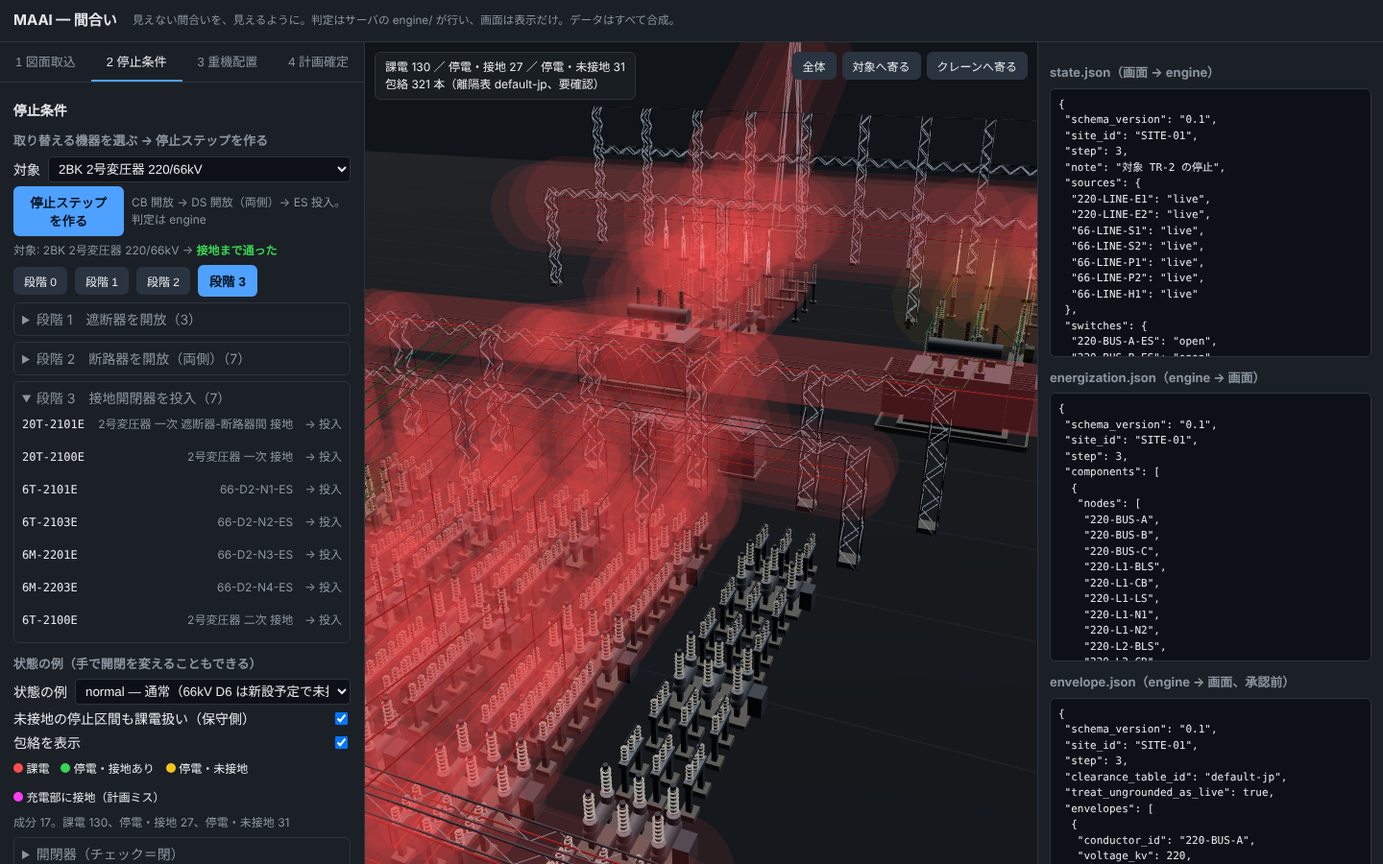
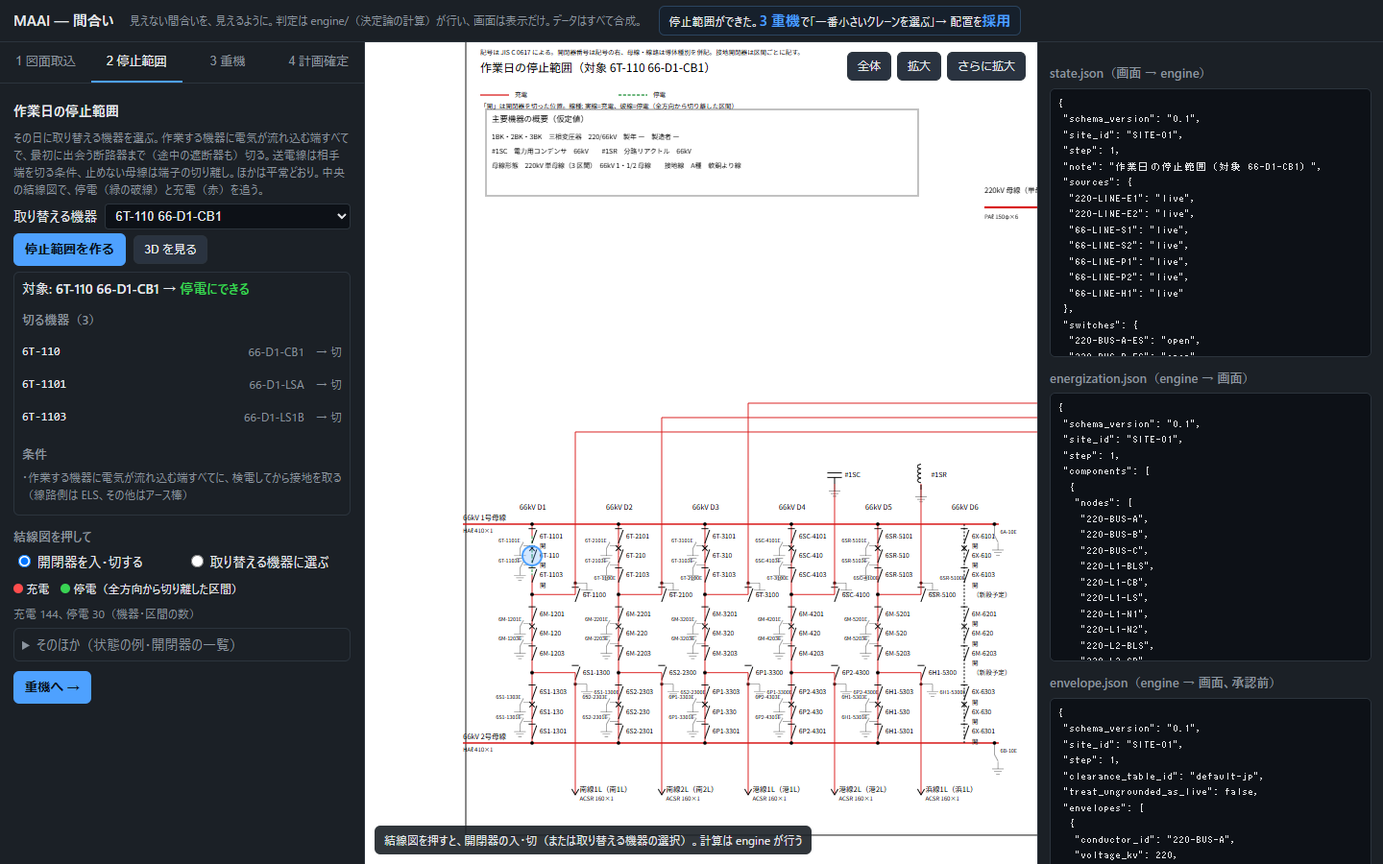
README・台本・仕様・仕組み図・画面写真を、作業日の停止範囲と重機の選定の流れに合わせる。状況: 話し合ったゴールまで完了

diff --git a/README.md b/README.md
@@ -4,16 +4,16 @@
 
 **見えない間合いを、見えるように。**
 
-変電所の機器を取り替えるとき、どこを止め、どこに接地し、残った充電部とクレーンの間にどれだけ距離が残るかを、図面から計算して描き出す机上の道具です。安全の判定は、同じ入力にいつも同じ答えを返す計算コード（決定論）が行います。Claude は図面の意味づけと説明だけを受け持ち、採否は人が決めます。
+変電所の機器を取り替える作業日に、どこを止めれば足りるか、残った充電部に近づかずに吊れる一番小さい（安い）クレーンはどれで、どこに据えるかを、図面から計算して出す机上の道具です。安全の判定は、同じ入力にいつも同じ答えを返す計算コード（決定論）が行います。Claude は図面の意味づけと説明だけを受け持ち、採否は人が決めます。
 
 > このリポジトリのデータはすべて合成です。実在する事業者・変電所・図面・写真・人は含みません（[データについて](#データについて)）。
 
-![停止ステップを段階 3 まで進めたところ。2号変圧器まわりだけ電気が消え、残りは赤いまま](docs/img/ui-2-steps.png)
+![作業日の停止範囲。66kV 遮断器を取り替える日に切る機器と条件が出て、結線図の上で停電（緑の破線）と充電（赤）を追う](docs/img/ui-2-steps.png)
 
 ## すぐ見る（インストールなし・スマホ可）
 
-- **ブラウザで動かす**: https://daxion1578.github.io/Minimum-Approach-Area-Indicator/ を開くだけ。サーバ無しで、計算はそのブラウザの中で、手元のサーバ版と同じ Python コードが行います（初回は準備に 10〜20 秒）。取込タブの「サンプル図面で試す」から 4 タブを順に触れます。Claude は呼ばないので、図面の意味づけと修正案の説明は規則の文になります。
-- **動いている証拠**: 上の `check` バッジ → 最新の実行 → **Summary**。push のたびに GitHub 上で、図面取込 → 停止ステップ → 離隔判定「不可」→ 修正案「起伏角 65°」で「可」→ 承認、を通しで動かし、段階ごとの合否を表で出しています（Claude は呼ばない経路）。
+- **ブラウザで動かす**: https://daxion1578.github.io/Minimum-Approach-Area-Indicator/ を開くだけ。サーバ無しで、計算はそのブラウザの中で、手元のサーバ版と同じ Python コードが行います（初回は準備に 10〜20 秒）。取込タブの「サンプル図面で試す」から 4 タブを順に触れます（画面上の帯が、次に押すものを示します）。Claude は呼ばないので、図面の意味づけと修正案の説明は規則の文になります。
+- **動いている証拠**: 上の `check` バッジ → 最新の実行 → **Summary**。push のたびに GitHub 上で、図面取込 → 作業日の停止範囲 → 重機の選定（一番小さいクラス）→ 追加停止で小さくできるか → 承認、を通しで動かし、段階ごとの合否を表で出しています（Claude は呼ばない経路）。
 - **画面**: 下の「流れ」の画面写真。
 - **手元で同じ確認**: `python scripts/check_demo.py`（サーバを立てずに 1 分以内）。
 
@@ -21,35 +21,35 @@
 
 変電所の設備更新工事は、運転中の構内で行われます。取り替える機器の周りは止めますが、受電回線や母線は片側しか止められず、すぐ隣に電気の流れている導体が残ります。そこへクレーンが入ると、ブームや吊荷が充電部に近づく場所ができます。
 
-近づいてはいけない距離は、図面のどこにも描かれていません。系統のつながりと開閉器の状態から計算して初めて分かり、停止の手順が一段進むたびに変わります。今は担当者が頭の中で図面を塗り分け、平面図に円を描いて確かめ、現地では見張る人の目に頼っています。人が減り、経験者が入れ替わると、この判断は再現できなくなります。
+近づいてはいけない距離は、図面のどこにも描かれていません。系統のつながりと開閉器の状態から計算して初めて分かり、作業日ごとの停止範囲で変わります。今は担当者が単線結線図を頭の中で塗り分け、平面図に円を描いてクレーンの大きさと置き場所を確かめ、現地では見張る人の目に頼っています。クレーンは小さいほど安いのに、近くの充電部を避けるために遠くから吊ると大きいクレーンが要る。止める範囲を広げれば小さく済むが、停止の調整が要る。この比べ方は人の経験に頼っていて、人が減り経験者が入れ替わると再現できなくなります。
 
 ## 誰が使うか
 
-使うのは、取り替える機器を決め、停止計画を自分で組み、重機の配置を工事会社と詰める工事担当者です。系統側との最終調整と承認は人が持ちます。この道具は、その人が頭の中でやっている「塗り分けて、間合いを測る」を、同じ順番で画面に出します。
+使うのは、取り替える機器を決め、停止計画を自分で組み、重機の配置を工事会社と詰める工事担当者です。系統側との最終調整と承認は人が持ちます。この道具は、その人が頭の中でやっている「結線図を塗り分けて、間合いを測り、クレーンの大きさを決める」を、同じ順番で画面に出します。
 
 ## 流れ（画面の 4 タブ）
 
 | | タブ | 何をするか | 誰が決めるか |
 |---|---|---|---|
 | 1 | 図面取込 | 単線結線図（ベクター PDF）を読み込む。線・開閉器記号・番号から接続を起こし、開閉器が「未確認」で並ぶ。種別の確認と質問文は Claude（呼べなければ規則） | 接続は決定論。確認は人 |
-| 2 | 停止条件 | 取り替える機器を選ぶと、遮断器開放 → 断路器開放（両側）→ 接地開閉器投入 の停止ステップが出る。段階ごとに、どの導体が生きているかを判定し、3D に赤（課電）・緑（停電・接地）・黄（停電・未接地）で塗り分ける | 決定論 |
-| 3 | 重機配置 | クレーンを置く（ベース・向き・ブーム長・起伏角・旋回範囲）。旋回の範囲を掃引して、ブーム・ロープ・吊荷と充電部の最小距離を出し、可／条件付き可／不可と根拠を返す。不可なら修正案（ベース移動・旋回制限・起伏・追加停止）を一つずつ再判定して並べる。説明文は Claude | 判定と候補は決定論。採用は人 |
-| 4 | 計画確定 | 承認すると、もう一度判定し直してから `approved/` に plan・envelope・段階ごとに塗り分けた単線結線図 PDF を書き出す。不可は承認できない | 人 |
+| 2 | 停止範囲 | その日に取り替える機器を選ぶと、作業日の停止範囲が出る。作業する機器に電気が流れ込む端すべてで、最初に出会う断路器まで（途中の遮断器も）切る。送電線は相手端を切る条件、止めない母線は端子の切り離し。中央の単線結線図で、停電（緑の破線）と充電（赤）を追い、図を押して開閉器を入・切できる | 決定論。止めるかどうかは人 |
+| 3 | 重機 | 吊る機器（取り替える機器の真上）と資材置場（の真上）と重さから、届いて・吊れて・充電部の離隔を保てる一番小さいクレーンと据付位置を選ぶ。一つ下のクラスが使えない理由と、追加で止めれば何級で済むかも出す。手で置いて確かめ、修正案を出すこともできる | 選定と判定は決定論。採用は人 |
+| 4 | 計画確定 | 承認すると、もう一度判定し直してから `approved/` に plan・envelope・停止範囲図（塗り分けた単線結線図 PDF）を書き出す。接地を取る条件などを計画に書く。不可と、重機の無い計画は承認できない | 人 |
 
+![重機の選定。66kV 遮断器を吊るのに 50t 級が要り（一つ下は 1 号変圧器の 66kV 側に近づくため使えない）、1 号変圧器を追加で止めれば 25t 級で済む](docs/img/ui-3-select.png)
 ![図面取込。開閉器が番号で並び、質問の無いものを確認済にする](docs/img/ui-1-ingest.png)
-![重機配置。不可の判定と、どの導体にどれだけ近いか](docs/img/ui-3-clearance.png)
-![修正案。engine が再判定した候補に、Claude（または定型文）の説明が付く](docs/img/ui-3-propose.png)
-![計画確定。承認ハッシュと書き出したファイル](docs/img/ui-4-approve.png)
+![計画確定。承認の条件と、書き出したファイル](docs/img/ui-4-approve.png)
 
 ## 設計判断
 
-- **安全の判断は計算で、説明は Claude で。** 課電判定・距離・包絡・停止ステップ・修正案の候補と再判定は `engine/` の決定論コードが行い、テストで固めます（`python -m pytest -q`）。Claude は数値を決めません。
+- **安全の判断は計算で、説明は Claude で。** 課電判定・距離・包絡・停止範囲・重機の選定・修正案の候補と再判定は `engine/` の決定論コードが行い、テストで固めます（`python -m pytest -q`）。Claude は数値を決めません。
 - **Claude の出力は必ず engine が再検証してから表示し、採否は人が決める。** 取り込んだ図面の種別が規則と食い違えば、上書きせず「要確認」として人に戻します。
-- **迷ったら保守側。** 停止したが接地していない区間は、既定では課電扱いで包絡を出します（画面で切替可。画面写真の黄色がそれです）。
+- **停止は作業日の停止範囲で持つ。** クレーンが動くのは開閉器の操作が終わった後なので、操作の途中段階は扱いません（操作の順番は系統運用側の操作票の仕事）。状態は充電・停電の 2 つで、「停電」は開閉器で全方向から切り離された区間だけ。一か所でもつながっていれば充電です。接地は流入端すべてに作業手順で取る前提とし、承認の出力に条件として必ず書きます。
+- **一番小さいクレーンを選ぶ。保守側に。** クラスを小さい順に試し、届く・吊れる・離隔を保てる最初のクラスを選びます。荷重表の間の半径は遠い側（小さい荷重）の値、旋回は 2° 刻みで刻みの間の動きも半径に上乗せして調べます。荷重表と吊る重さは例示値で、会社と機種の表で差し替える前提です。
 - **カメラで充電部を当てない。** 生きているかどうかは見た目では分かりません。系統のつながりと開閉器の状態から計算します。
 - **情報を外に出さない作り。** Claude を呼ぶのは `agent/client.py` の一か所。送る前に `agent/mask.py` が線路名・所名を符号に置き換え、送った内容を `logs/outbound/` に残します。容量・潮流・整定・暦日・座標はそもそもデータに持ちません。
 - **キーが無くても全画面が動く。** 意味づけと説明は規則の代替に切り替わり、安全判定は何も変わりません。
-- **数十年使えるデータに。** 入力は図面、出力は版番号つきの JSON と PDF。判断の数値（離隔表、余裕、監視員の条件）はコードでなくファイルに置きます（`data/tables/`, `data/rules/`）。
+- **数十年使えるデータに。** 入力は図面、出力は版番号つきの JSON と PDF。判断の数値（離隔表、荷重表、余裕、監視員の条件）はコードでなくファイルに置きます（`data/tables/`, `data/rules/`）。承認の記録には、使った結線・配置・離隔表のハッシュを残します。
 
 判断の経緯は [docs/decisions.md](docs/decisions.md)、Claude に任せること・任せないことの一覧は [docs/claude-boundary.md](docs/claude-boundary.md)。
 
@@ -58,7 +58,7 @@
 | 任せる（`agent/`） | 任せない（`engine/` と人） |
 |---|---|
 | 取り込んだ図面の意味づけ：開閉器の種別の確認、名前の無い導体の説明、人に確かめてほしい点の文章 | 図面からの接続の読み取り（線の太さ・交点・記号の位置で決まる） |
-| 修正案の説明：何を変え、何が良くなり、何を犠牲にするか。順位づけの理由 | 課電判定、距離、包絡、停止ステップ、修正案の候補づくりと再判定 |
+| 修正案の説明：何を変え、何が良くなり、何を犠牲にするか。順位づけの理由 | 課電判定、距離、包絡、停止範囲、重機の選定、修正案の候補づくりと再判定 |
 | | 承認 |
 
 ## 動かし方
@@ -70,9 +70,9 @@ uvicorn server.app:app --reload     # http://localhost:8000
 ```
 
 1. タブ 1 で `data/sites/SITE-01/drawings/SITE-01_sld.pdf` を選んで「取り込む」。「質問の無いものを確認済にする」。
-2. タブ 2 で対象「2BK 2号変圧器」のまま「停止ステップを作る」→「段階 3」。3D の 2 号バンクだけ緑になる。
-3. タブ 3 で「離隔を判定する」→ 不可（3 号変圧器の一次に 3.00 m、必要 7.00 m）。「修正案を出す」→ 「ブームの起伏角を 65° に上げる」を採用 → 可。
-4. タブ 4 で「承認して書き出す」。`data/sites/SITE-01/approved/plan-*/` に `step-0..3-sld.pdf` ができる。
+2. タブ 2 で対象「6T-110（66kV 1 号ダイヤの遮断器）」のまま「停止範囲を作る」。切る機器 3 つ（6T-110、6T-1101、6T-1103）と接地の条件が出て、結線図のその区間が緑の破線になる。
+3. タブ 3 で「一番小さいクレーンを選ぶ」→ 50t 級で置ける（一つ下は 1 号変圧器の 66kV 側に近づくので使えない）。「追加停止を採用して 25t にする」→ 離隔「可」。
+4. タブ 4 で条件を確かめて「承認して書き出す」。`data/sites/SITE-01/approved/plan-*/` に停止範囲図 `step-0..2-sld.pdf` ができる。
 
 - **Claude を使うとき**: `.env.example` を `.env` にコピーして `MAAI_ANTHROPIC_API_KEY` を入れます。シェルの環境変数には入れないでください。
 - **Claude を呼ばずに動かすとき**: `MAAI_OFFLINE=1`。キーが無いときも、意味づけと説明は規則に切り替わって全画面が動きます。
@@ -87,11 +87,13 @@ uvicorn server.app:app --reload     # http://localhost:8000
   - 値: 100V/200V・6.6kV 2 m、22kV 3 m、66kV 4 m、154kV 5 m、275kV 7 m、500kV 11 m。段の間の電圧は上の段で見ます（220kV は 7 m）。
   - 比較用に、法令の値（基発第759号、こちらのほうが小さい）も同じ表に置いています。
   - 値は社により差があるので「要確認」としています。工事ごとに管轄の事業者に確かめてください。
-- 図面取込はベクター PDF（線と文字が取り出せるもの）が対象で、スキャン画像の PDF は対象外です。
+- クレーンの荷重表（13t・16t・25t・50t 級）と吊る機器の重さは例示値です（`data/tables/cranes.json`、要確認）。特定の製品の表ではありません。
+- 図面取込はベクター PDF（線と文字が取り出せるもの）が対象で、スキャン画像の PDF は対象外です。読むのは単線結線図（つながり）だけで、3D の機器の位置と高さは合成データです。
 
 ## この先
 
-- 配置図の取込（結線図と同じ番号で結ぶ）。今は配置は合成の座標を使っています
+- 配置図（平面）と断面図の取込（結線図と同じ開閉器番号で結ぶ）。今は 3D の位置と高さは合成データで、取り込んだ結線図は下書きの表示まで（停止範囲の計算は合成変電所のデータで動く）
+- 複数の作業日を並べて持つ（今は 1 日ずつ）。据付可能な範囲（地盤・搬入路）を一般平面図から取る
 - 作業指示の自然文から、止められない回線・作業対象・重機を取り出す
 - 停止要否検討書の文章
 - 承認済みの包絡を現地（AR）とクレーン側の装置へ

diff --git a/docs/demo-plan.md b/docs/demo-plan.md
@@ -2,28 +2,29 @@
 
 画面収録＋語り。映すのは実際に動く画面だけ。実在の設備・写真・社名は映さない（画面に出る図面・名称はすべて合成データ）。
 
-収録前の準備: `uvicorn server.app:app`、ブラウザは 1440×900 以上、タブ 1 を開いた状態で開始。`.env` にキーがあれば取込タブ右上が「Claude: …」になる。無ければ「規則で代替」の表示のまま収録し、語りでそう言う。
+収録前の準備: `uvicorn server.app:app`（または公開のブラウザ版）、ブラウザは 1440×900 以上、タブ 1 を開いた状態で開始。`.env` にキーがあれば取込タブ右上が「Claude: …」になる。無ければ「規則で代替」の表示のまま収録し、語りでそう言う。
 
 ## 秒割り
 
 | 時間 | 画面 | 語り |
 |---|---|---|
-| 0:00–0:20 | タイトル → 3D 全体（通常状態、全部赤） | 機器を取り替えるとき、変電所は全部は止められません。隣に電気の流れる線が残り、そこへクレーンが入ります。近づいてはいけない距離は、図面に描かれていない。MAAI、間合い。見えない間合いを、見えるようにします |
-| 0:20–0:50 | タブ 1。PDF を選ぶ → 取り込む → 開閉器が番号で並ぶ → 質問が 9 つ → 「質問の無いものを確認済にする」 | 入口は図面です。単線結線図の PDF を投げ込むと、線と記号と番号から接続を起こします。接続を決めるのは計算。Claude は番号の形とつながりから種別を確かめ、迷った点を人への質問にします。ここでは新設予定のベイが 9 つ、質問として残りました。人が確認して、はじめて使えるようになります |
-| 0:50–1:20 | タブ 2。対象「2号変圧器」→ 停止ステップを作る → 段階 1・2・3 を順に押す（視点は対象に寄る） | 取り替える機器を選ぶと、遮断器を切り、断路器を両側で切り、接地する、という停止ステップが出ます。段階を進めるたびに、どの導体が生きているかを計算し直す。赤が課電、緑が停電して接地、黄は止めたが接地していない区間。黄は既定で課電扱いです。迷ったら保守側に倒す |
-| 1:20–1:50 | タブ 3。離隔を判定する → 不可。表の最小 3.00 m／必要 7.00 m。「クレーンへ寄る」 | クレーンを置きます。旋回を掃引し、ブームと吊荷が残った充電部にどこまで近づくかを、導体ごと相ごとに出す。結果は不可。3号変圧器の一次に 3 メートル、必要は 7 メートル。根拠は数字で出ます |
-| 1:50–2:20 | 修正案を出す → 候補が並ぶ（可・条件付き可・不可）→ 説明文が付く → 「起伏角 65°」を採用 → 可 | 修正案です。ベースの移動、旋回の制限、ブームの起伏、追加停止。候補を作って再判定するのは計算で、Claude は説明だけ。何を変え、何を犠牲にするかを書きます。起伏角を上げる案を採用して、可になりました |
-| 2:20–2:40 | タブ 4。承認して書き出す → 承認ハッシュ → step-3-sld.pdf を開く（塗り分けた結線図） | 承認は人。承認の瞬間にもう一度判定し直し、不可は承認できません。段階ごとに塗り分けた単線結線図が出ます。現場に持っていく紙は、これです |
-| 2:40–3:00 | README の「設計判断」と `docs/claude-boundary.md` を一瞬。最後に 3D 全体 | 安全の判断は計算で、説明は Claude で。外に出す名前は符号に置き換え、送った内容は記録に残します。この先は現地の AR とクレーン側の装置へ。見えない間合いを、見えるように |
+| 0:00–0:20 | タイトル → 3D 全体（平常、全部赤） | 機器を取り替える日も、変電所は全部は止められません。隣に電気の流れる線が残り、そこへクレーンが入ります。近づいてはいけない距離は、図面に描かれていない。MAAI、間合い。見えない間合いを、見えるようにします |
+| 0:20–0:45 | タブ 1。「サンプル図面で試す」（またはPDFを選ぶ）→ 開閉器が番号で並ぶ → 質問 9 → 「質問の無いものを確認済にする」 | 入口は単線結線図です。線と記号と番号から、つながりを起こします。決めるのは計算。Claude は種別を確かめ、迷った点を人への質問にします |
+| 0:45–1:15 | タブ 2。対象「6T-110（66kV 遮断器）」→ 停止範囲を作る → 結線図で緑の破線の区間に寄る → 開閉器を一つ押して赤に変わるのを見せ、戻す | この日に取り替えるのは 66kV の遮断器。電気が流れ込む端すべてで、最初の断路器まで切ります。止める範囲は、いつも見ている単線結線図の上で追う。緑が停電、赤が充電。接地を取ることは、計画の条件として必ず書きます |
+| 1:15–1:55 | タブ 3。「一番小さいクレーンを選ぶ」→ 50t 級。一つ下が使えない理由 → 追加で止めた場合「1 号変圧器を止めれば 25t 級」→ 採用 → 可 | クレーンは小さいほど安い。ブームは取り替える機器の真上と、資材置場の真上に来ます。その 2 点と重さから、届いて、吊れて、充電部に近づかない一番小さいクレーンを計算で選ぶ。答えは 50t 級。一つ下は、1 号変圧器の線に近づきすぎるから使えない。では、その変圧器を止めたら。25t 級で済む。止めるかどうかは、人が決めます |
+| 1:55–2:25 | タブ 4。条件を見せる → 承認して書き出す → step-1-sld.pdf を開く（塗り分けた結線図） | 承認は人。承認の瞬間にもう一度判定し直し、不可と、クレーンの無い計画は承認できません。停止範囲図と、接地や追加停止の条件が書き出されます |
+| 2:25–2:45 | README の「設計判断」と `docs/claude-boundary.md` を一瞬 | 安全の判断は計算で、説明は Claude で。荷重表と重さは例示値で、会社の表に差し替える前提です |
+| 2:45–3:00 | ブラウザ版の URL と 3D 全体 | ブラウザで開くだけで、誰でも同じ計算を試せます。この先は配置図と断面図の取込、現地の AR とクレーン側の装置へ。見えない間合いを、見えるように |
 
 ## 切る順（時間が足りなければ）
 
-1. 2:40 以降の仕組みの説明を 10 秒に
-2. 段階 1・2 を飛ばして段階 3 だけ
-3. 取込の「確認済にする」操作を省き、取込結果の一瞬だけ
+1. 2:25 以降の仕組みの説明を 10 秒に
+2. 取込の「確認済にする」操作を省き、取込結果の一瞬だけ
+3. 結線図で開閉器を押す操作を省く
 
 ## 画面操作のメモ
 
-- クレーンの初期値は「段階 3 で不可、起伏角 65° で可」になるように置いてある（ベース 88,72、向き 0°、ブーム 14 m、起伏 45°、旋回 ±50°）。変えない
-- 3D の視点ボタン: 全体／対象へ寄る／クレーンへ寄る。停止ステップを作ると自動で対象に寄る
-- 右の JSON 列は映さなくてよい。映すなら energization.json の `state` が変わる瞬間
+- 見本は 66kV 1 号ダイヤの遮断器（6T-110）。最小の停止範囲では 50t 級、1 号変圧器を追加で止めれば 25t 級になる（`python scripts/check_demo.py` の 3・4 と同じ）
+- 結線図は右上の「拡大」で寄る。停止範囲を作ると対象の位置へ自動で寄る
+- 3D の視点ボタン: 全体／対象へ寄る／クレーンへ寄る。配置を採用すると自動でクレーンへ寄る
+- 右の JSON 列は映さなくてよい

diff --git a/STATUS.md b/STATUS.md
@@ -4,43 +4,43 @@
 gantt
   dateFormat YYYY-MM-DD
   axisFormat %m/%d
-  section 準備
-  リポジトリ骨格と文書          :done,   p1, 2026-11-02, 1d
-  仕様の確定・試作画面・合成図面  :done,   p2, 2026-11-03, 1d
   section 縦切り
   1 契約・課電判定・3D包絡       :done,   s1, 2026-11-03, 1d
-  2 重機・干渉・停止ステップ・承認 :done,  s2, 2026-11-04, 1d
-  3 PDF取込・Claude層・修正案の説明 :done, s3, 2026-11-04, 1d
-  section 提出
-  README・台本・通し確認          :done,   v1, 2026-11-05, 1d
+  2 重機・干渉・承認              :done,   s2, 2026-11-04, 1d
+  3 PDF取込・Claude層            :done,   s3, 2026-11-04, 1d
+  section 11/6 の作り直し
   ブラウザ版（GitHub Pages）      :done,   w1, 2026-11-06, 1d
-  通しで触って直す                :active, v2, 2026-11-06, 1d
-  収録                           :        v3, 2026-11-07, 1d
+  作業日の停止範囲・結線図の画面  :done,   r1, 2026-11-06, 1d
+  重機の選定（一番小さいクレーン）:done,   r2, 2026-11-06, 1d
+  README・台本・画面写真          :done,   r3, 2026-11-06, 1d
+  section 提出
+  収録                           :active, v3, 2026-11-07, 1d
   提出                           :milestone, m1, 2026-11-08, 0d
 ```
 
-更新: 2026-11-06 07:25
+更新: 2026-11-06 08:50
 
 ## 結論
 
-ブラウザ版を公開した。https://daxion1578.github.io/Minimum-Approach-Area-Indicator/ を開くだけで、サーバ無しで 4 タブが最後まで動く。状態: 完了（本人も表示を確認済み）。
+話し合ったゴールまで作り終えた（完了）。停止は作業日の停止範囲になり、単線結線図の上で追える。重機は吊る 2 点と重さから一番小さいクレーンを計算で選び、追加で止めれば何級で済むかも出る。サーバ版とブラウザ版の両方で通しで動く。
 
 ## 確かめた結果
 
-- テスト 57 件すべて合格（ブラウザ版がサーバ版と同じ答えを返すテスト 2 件を追加）。公開前チェック OK、通しの確認 6/6 合格
-- 公開 URL を自動操作のブラウザで通した: 準備 約 5 秒 → 図面取込 136/142、precision 1 / recall 0.953 → 停止ステップ「接地まで通った」→ 離隔「不可」（3.00 m／必要 7.00 m）→ 修正案の採用で「可」→ 承認で PDF 4 枚が開く
-- 中身: ブラウザの中で Python を動かす仕組み（Pyodide）で、サーバ版のコードをそのまま実行。Claude は呼ばない（ブラウザに API キーを置けないため）
-- 手元のサーバ版（収録で使う画面）は変わっていないことを確認
-- 未確認: AR 試作のページ（`/web/ar.html`）が公開サイトで開くか。作り方の上では残してある
+- テスト 64 件すべて合格。公開前チェック OK。通しの確認 7/7 合格（GitHub Actions も同じものを回す）
+- 見本（66kV 遮断器 6T-110 の作業日）: 切る機器 3（6T-110・6T-1101・6T-1103）→ 選定 50t 級（一つ下は 1 号変圧器の 66kV 側に 2.60 m、必要 4.00 m で使えない）→ 1 号変圧器を追加で止めれば 25t 級 → 採用で「可」（4.74 m／必要 4.00 m）→ 承認で停止範囲図 PDF 3 枚
+- 自動操作のブラウザで、サーバ版とブラウザ版の両方を最後まで通した（承認ハッシュまで一致）
+- カメラ AR の実験ページは公開サイトから外した（AR の試作 `web/ar.html` は残した）
+
+![重機の選定](docs/img/ui-3-select.png)
 
 ## 判断してほしいこと
 
 | # | 判断 | 選択肢 | 何が変わるか・費用・後戻り |
 |---|---|---|---|
-| 1 | 動画にブラウザ版を入れるか | A. 最後の 5 秒で URL を映す（推奨） ／ B. 入れない | A は「誰でもすぐ触れる」が伝わる。台本に 1 行足すだけで後戻りできる |
+| 1 | 変圧器を取り替えるとき、ベイの遮断器と母線側断路器も切るか | A. 今のまま（隣の断路器だけ切る。遮断器側は充電で、離隔の判定は厳しめ）推奨 ／ B. ベイ全体を切る | B は決まりに 1 行足すだけ（30 分）。実務がどちらかで決まる。後戻りできる |
 
 ## 次の一手
 
-1. 本人: https://daxion1578.github.io/Minimum-Approach-Area-Indicator/web/ar.html が開くか見る（開かなければ番号で知らせる）
-2. 本人: `.forbidden-terms.local.txt`（公開しない語のリスト）を書いて `python scripts/public_safety_check.py --all`
-3. 今日は通しで触って直す（機能追加はしない）。明日 11/7 に収録
+1. 本人: 公式の案内で締切（11/8 20:00 か 11/10 14:00 か）を確かめる。`.forbidden-terms.local.txt`（公開しない語のリスト）を書いて `python scripts/public_safety_check.py --all`
+2. 本人: ブラウザ版 https://daxion1578.github.io/Minimum-Approach-Area-Indicator/ を開き、上の帯の案内どおりに 4 タブを押してみる（台本 `docs/demo-plan.md` と同じ流れ）
+3. 11/7 収録。言い回しで直したい所があれば CLI に言う

diff --git a/docs/decisions.md b/docs/decisions.md
@@ -8,6 +8,7 @@
 - **最小停止範囲の決まりを本人の実務に合わせた。** 作業する機器に電気が流れ込む端すべてで、最初に出会う断路器まで（途中の遮断器も）切る。送電線は相手端の遮断器・断路器を切る条件として書き出す。止めない母線に直接つながる端は端子の切り離し。切り離された作業対象以外は平常どおり運用。ELS は線路側断路器の根元の刃（90° 立ち上がって接地）、母線と母線側断路器はアース棒で接地、という実務も本人から。
 - **状態は充電・停電の 2 形態にし、接地の判定は外す（本人の判断）。** 「停電」は全方向から切り離された区間だけ（一か所でもつながれば充電）。接地は作業手順で流入端すべてに取る前提を、承認の出力の条件に必ず書く。`CLAUDE.md` の安全上の原則をこの形に書き換えた。計算は従来の 4 状態のまま持ち、画面と判定で「停電・接地／停電・未接地」を「停電」にまとめる（データ契約は変えない）。
 - **重機は「吊る 2 点と重さから、一番小さい（安い）クレーンと据付位置を engine が選ぶ」形にした（本人の考え）。** ブームは更新設備の真上と資材置場の真上に来るので、2 点と重さが決まればサイズが決まる。小さい順に試し、一つ下が使えない理由も出す。荷重表と重さは例示値で「要確認」。
+- **画面写真を新しい流れで撮り直した（`docs/img/ui-1-ingest.png` `ui-2-steps.png` `ui-3-select.png` `ui-4-approve.png`）。** 出所: 手元の `uvicorn server.app:app` を自動操作のブラウザ（Edge）で撮影。映っているのは合成変電所 SITE-01 の図面と 3D だけ。
 - **カメラ AR の実験ページ（lab-camera-ar の web/lab/）を公開サイトから外した。** 設計原則を外した実験で、公開前チェックも通っていない。作品と同じ URL に並べない。
 
 - **ブラウザ版を GitHub Pages に置く（サーバ無し、Pyodide でサーバ版と同じ Python を動かす）。** 外部のホスティングを使わず、URL を開くだけで誰でも触れる形にした。`server/browser.py` が `server/app.py` の処理関数をそのまま呼ぶので、判定の中身は二重にならない（`tests/test_browser_api.py` でサーバ版と同じ答えを確認）。Claude はブラウザに API キーを置けないので呼ばない。ブラウザで動かない部品（暗号化 PDF の復号、ページの画像化）は判定に使わないので空の代わりを差し込み、暗号化 PDF だけは読めないと返す。Pages の公開元をブランチから Actions に変え、`lab-camera-ar` の `web/`（AR の試作）は同じ URL のまま残す。

diff --git a/docs/architecture.md b/docs/architecture.md
@@ -1,6 +1,6 @@
 # 仕組みの図
 
-時間軸が二つある。処理の順番（取込→判定→提案→承認）と、停止ステップの進行（0→3）。この文書は前者を描く。後者はアプリの画面（ステップのスライダー）で見せる。
+処理の順番（取込 → 作業日の停止範囲 → 判定・重機の選定 → 提案 → 承認）を描く。停止は作業日ごとの停止範囲で持ち、開閉器操作の途中段階は扱わない（11/6）。
 
 ## データの系譜
 
@@ -11,23 +11,28 @@ flowchart LR
   subgraph IN["入力"]
     PDF["単線結線図（ベクター PDF）"]
     TXT["作業指示文（この先）"]
-    MACH["クレーン（画面で置く）"]
+    LIFT["吊る機器・資材置場・重さ"]
+    MACH["クレーン（選定を採用、または画面で置く）"]
   end
   subgraph ST["構造"]
     T0["topology 未確認"] --> T1["topology 承認済み"]
   end
   subgraph JD["判定（エンジン）"]
-    EN["energization"] --> EV["envelope"] --> IF["clearance"]
+    SC["作業日の停止範囲（steps）"] --> EN["energization（充電・停電）"] --> EV["envelope"] --> IF["clearance"]
+    EV --> SEL["重機の選定（一番小さいクラス）"]
   end
   subgraph PR["提案（Claude）"]
     PP["候補（engine）＋ 説明（Claude）"]
   end
   subgraph OUT["承認済み成果物"]
-    AP["plan / envelope / step-N-sld.pdf"]
+    AP["plan（条件・入力のハッシュ）/ envelope / 停止範囲図 step-N-sld.pdf"]
   end
   PDF --> T0
-  T1 --> EN
-  TXT --> EN
+  T1 --> SC
+  TXT -.-> SC
+  LIFT --> SEL
+  SEL -- 採用 --> MACH
+  SEL -- 置けない／小さくしたい --> SC
   MACH --> IF
   IF -- 干渉あり --> PP -- 再検証 --> EN
   IF -- 干渉なし --> AP

diff --git a/docs/claude-boundary.md b/docs/claude-boundary.md
@@ -8,7 +8,8 @@ MAAI は安全に関わる道具なので、どこを人と決定論コードが
 |---|---|---|
 | 課電判定（どの導体が生きているか） | `engine/energize.py` | 系統の接続と開閉器の状態から一意に決まる。推論の余地を残すと事故になる |
 | 距離・干渉・包絡の計算 | `engine/` | 幾何は計算で出る。LLM に数値を決めさせない |
-| 停止ステップの適用 | `engine/steps.py` | 順序の誤りは接地と充電の衝突になる。エンジンが `invalid` で止める |
+| 作業日の停止範囲（どこを切るか） | `engine/steps.py` | 流入端すべてで最初の断路器まで切る、という決まりで一意に決まる。切り忘れは充電部への接近になる |
+| 重機の選定（一番小さいクラスと据付位置） | `engine/crane_select.py` | 荷重表・作業半径・離隔の計算で決まる。クレーンの大きさは費用にも安全にも直結するので、推論させない |
 | 提案の採否 | 人 | 現場の責任は人にある。Claude の提案は必ずエンジンで再検証してから表示する |
 | 外に出す情報の選別 | `agent/mask.py`（置換表） | 社内情報を外部に出せない現場で使える前提条件。線路名・所名を符号に置き換え、戻すのはローカル。決定論で動き、モデルを呼ばない |
 | 図面からの結線の読み取り（どの導体が何につながるか） | `ingest/pdf_sld.py` | 線の太さ・交点・記号の位置で決まる。Claude に接続を決めさせると、間違いが静かに通る |
